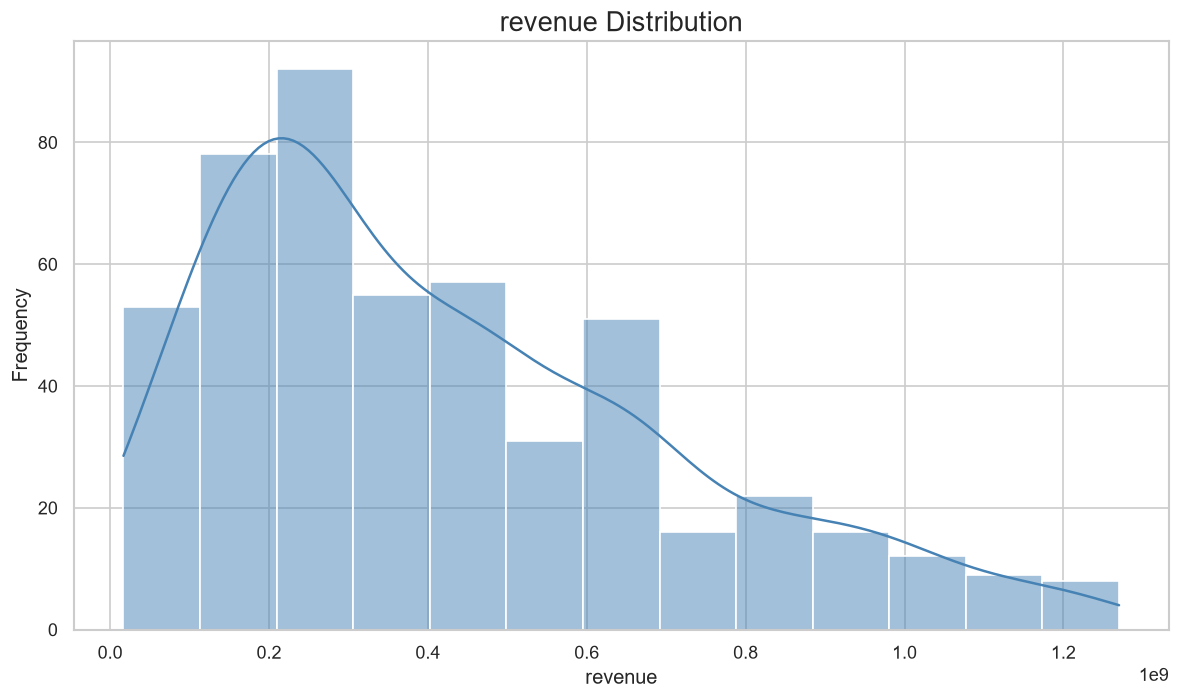
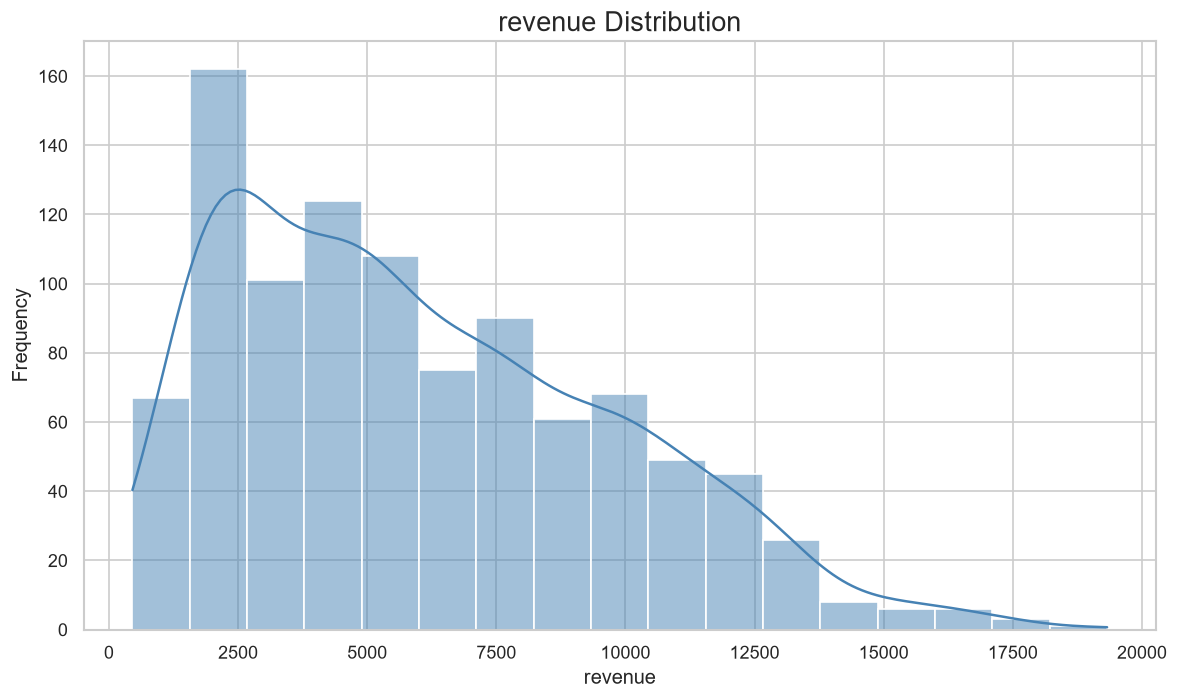
updated charts

diff --git a/frontend/src/components/Charts.jsx b/frontend/src/components/Charts.jsx
@@ -1,14 +1,44 @@
 import "./Charts.css";
 
 function Charts({ charts }) {
+
   if (!charts || charts.length === 0) return null;
 
-  return (
-    <div className="charts-container">
+  const getChartType = (chart) => {
 
-      <h2 className="charts-title">
-        📈 Generated Charts
-      </h2>
+    if (chart.includes("histogram")) return "Histogram";
+    if (chart.includes("boxplot")) return "Box Plot";
+    if (chart.includes("scatter")) return "Scatter Plot";
+    if (chart.includes("heatmap")) return "Heatmap";
+    if (chart.includes("line")) return "Line Chart";
+    if (chart.includes("trend")) return "Trend";
+    if (chart.includes("pie")) return "Pie Chart";
+    if (chart.includes("bar")) return "Bar Chart";
+
+    return "Chart";
+
+  };
+
+  return (
+
+    <section className="charts-container">
+
+      <div className="charts-header">
+
+        <span className="section-badge">
+          DATA VISUALIZATION
+        </span>
+
+        <h2>
+          AI Generated Charts
+        </h2>
+
+        <p>
+          InsightAI automatically creates professional visualizations
+          to help understand your dataset faster.
+        </p>
+
+      </div>
 
       <div className="charts-grid">
 
@@ -16,12 +46,15 @@ function Charts({ charts }) {
 
           <div className="chart-card" key={index}>
 
-            <h3>
-              {chart
-                .replace(".png", "")
-                .replaceAll("_", " ")
-                .replace(/\b\w/g, (c) => c.toUpperCase())}
-            </h3>
+            <div className="chart-top">
+
+              <span className="chart-type">
+
+                {getChartType(chart)}
+
+              </span>
+
+            </div>
 
             <img
               src={`http://127.0.0.1:8000/reports/${chart}`}
@@ -29,14 +62,34 @@ function Charts({ charts }) {
               className="chart-image"
             />
 
+            <h3>
+
+              {chart
+                .replace(".png","")
+                .replaceAll("_"," ")
+                .replace(/\b\w/g,c=>c.toUpperCase())}
+
+            </h3>
+
+            <a
+              href={`http://127.0.0.1:8000/reports/${chart}`}
+              target="_blank"
+              rel="noreferrer"
+              className="download-btn"
+            >
+              View Full Size
+            </a>
+
           </div>
 
         ))}
 
       </div>
 
-    </div>
+    </section>
+
   );
+
 }
 
 export default Charts;